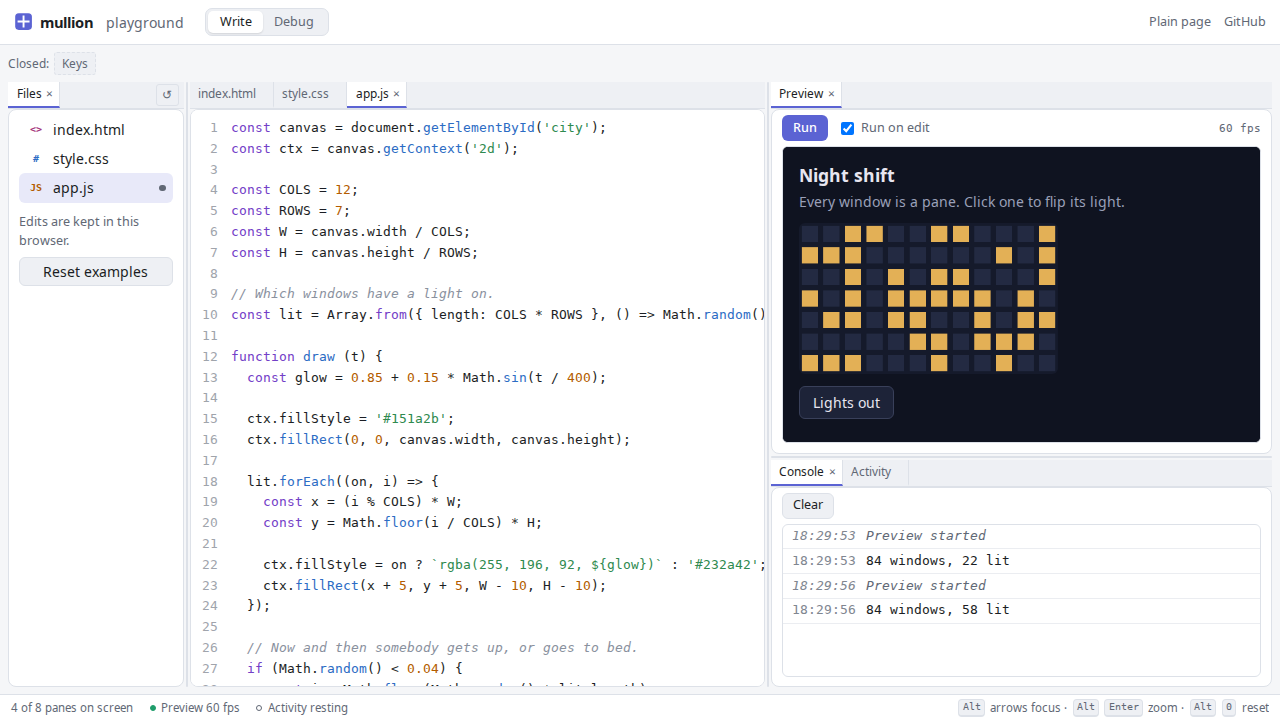
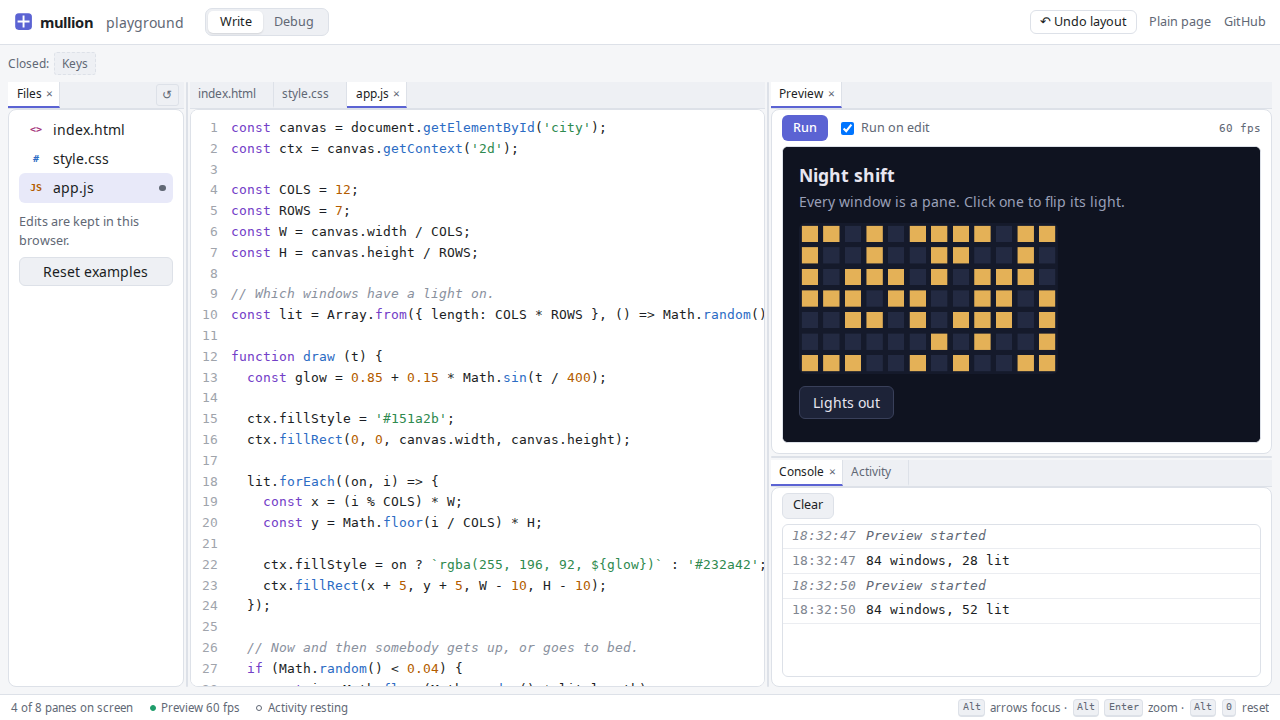
Undo layout, from onLayout and setLayout; a version on the kept layouts; the Keys that main added

Changed region(s): [[0.625, 0.3056, 0.8438, 0.5194], [0.8125, 0.0, 0.875, 0.0611], [0.6562, 0.7333, 0.6875, 0.7944]]

diff --git a/demo/playground.js b/demo/playground.js
@@ -509,6 +509,34 @@ const shown = (id, on) =>
 /* A note that the layout was kept, which fades. */
 let fading = 0;
 
+/* Every layout a person left, for an undo: onLayout says what each
+   change came to, and setLayout puts an old one back. A mode or a
+   screen of another shape is a history of its own, so either starts it
+   over. */
+const steps = [];
+let now = null;
+let undoing = false;
+
+const forget = () =>
+{
+    steps.length = 0;
+    now = panes.layout();
+    $('undo').disabled = true;
+};
+
+$('undo').addEventListener('click', () =>
+{
+    const back = steps.pop();
+
+    if (back === undefined)
+        return;
+
+    undoing = true;
+    panes.setLayout(back);
+    undoing = false;
+    $('undo').disabled = steps.length === 0;
+});
+
 /* Null until createPanes returns: onShow is told about the first panes
    on the screen from inside it. */
 let panes = null;
@@ -521,6 +549,7 @@ panes = createPanes({
     store: store(),
     on: true,
     reset: '↺',
+    version: 1,
     ...(TOUCH && {
         media: '(min-width: 20em)',
         strip: 'scroll',
@@ -536,8 +565,19 @@ panes = createPanes({
             marks();
         }
     },
-    onLayout: () =>
+    onLayout: (layout) =>
     {
+        if (!undoing && now !== null)
+        {
+            steps.push(now);
+
+            if (steps.length > 50)
+                steps.shift();
+        }
+
+        now = layout;
+        $('undo').disabled = steps.length === 0;
+
         const note = $('st-saved');
 
         note.textContent = 'Layout saved';
@@ -552,6 +592,7 @@ const pick = (name) =>
     mode = name;
     keep('mode', name);
     panes.mode(name);
+    forget();
 
     for (const b of document.querySelectorAll('[data-mode]'))
         b.setAttribute('aria-pressed', String(b.dataset.mode === name));
@@ -582,8 +623,11 @@ for (const b of document.querySelectorAll('[data-open]'))
 if (TOUCH)
 {
     side.addEventListener('change', () =>
+    {
         panes.setLayouts(side.matches ? SIDEWAYS : UPRIGHT,
-                         { store: store() }));
+                         { store: store(), version: 1 });
+        forget();
+    });
 
     /* The layout is as tall as what is visible, which on a phone is the
        window less the keyboard when one is up -- and `dvh' does not know

diff --git a/demo/index.html b/demo/index.html
@@ -42,9 +42,10 @@
 
   <span class="grow"></span>
 
+  <button type="button" id="undo" class="undo" disabled title="Put the layout back the way it was before the last change" aria-label="Undo layout">↶<span class="label"> Undo layout</span></button>
   <a class="to-plain" href="?panes=0" title="The same page, with the tiler off">Plain page</a>
   <a class="to-tiled" href="./">Tiled</a>
-  <a href="https://github.com/mishan/mullion">GitHub</a>
+  <a class="to-github" href="https://github.com/mishan/mullion">GitHub</a>
 </header>
 
 <p class="plain-note">
@@ -202,7 +203,8 @@ requestAnimationFrame(draw);
 <details id="keys" data-pane data-pane-title="Keys" data-pane-min="220">
   <summary>Keys and gestures</summary>
   <table class="keys">
-    <tr><td>Drag a tab</td><td>onto a pane to stack, an edge to split, the drawer to close</td></tr>
+    <tr><td>Drag a tab</td><td>onto a tab strip to put it there, a pane to stack, an edge to split, the drawer to close</td></tr>
+    <tr><td><kbd>Esc</kbd> while dragging</td><td>take the drag back</td></tr>
     <tr><td>Drag a divider</td><td>or focus it and use the arrows; double-click evens it up</td></tr>
     <tr><td><kbd>Alt</kbd> <kbd>←↑→↓</kbd></td><td>focus the pane that way</td></tr>
     <tr><td><kbd>Alt</kbd> <kbd>Shift</kbd> <kbd>←↑→↓</kbd></td><td>move the pane that way</td></tr>

diff --git a/demo/playground.css b/demo/playground.css
@@ -144,6 +144,7 @@ kbd
 
 .bar > a:not(.brand)
 {
+    white-space: nowrap;
     font-size: 0.9em;
     color: var(--muted);
     text-decoration: none;
@@ -178,7 +179,25 @@ kbd
     box-shadow: 0 1px 2px rgb(0 0 0 / 0.12);
 }
 
+/* Quiet until there is something to undo. */
+.undo
+{
+    padding: 0.15em 0.7em;
+    font-size: 0.9em;
+    color: var(--text);
+    background: transparent;
+    border: 1px solid var(--line);
+    border-radius: 6px;
+}
+
+.undo:hover:not(:disabled) { border-color: var(--muted); }
+.undo:disabled { color: var(--muted); opacity: 0.55; cursor: default; }
+
+html.touch .undo { padding: 0.15em 0.55em; }
+html.touch .undo .label { display: none; }
+
 /* What only makes sense one side of the threshold. */
+body:not(.tiled) .undo,
 body:not(.tiled) .modes,
 body:not(.tiled) .to-plain,
 body.tiled .to-tiled,
@@ -534,7 +553,9 @@ html.touch .status .hint { display: none; }
 }
 
 html.touch body.tiled .bar { flex-wrap: nowrap; padding: 0.4em 0.7em; }
-html.touch body.tiled .what { display: none; }
+html.touch body.tiled .what,
+html.touch body.tiled .to-github { display: none; }
+html.touch body.tiled .bar { gap: 0.6em; }
 html.touch body.tiled .panesroot { margin: 0.35em; }
 html.touch body.tiled .status { gap: 0.9em; padding: 0.25em 0.7em; }
 html.touch body.tiled #st-activity { display: none; }
